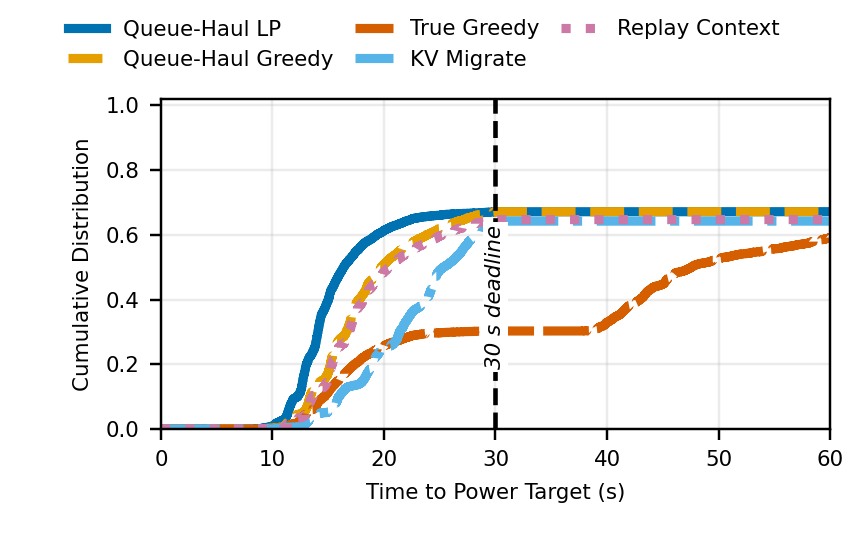
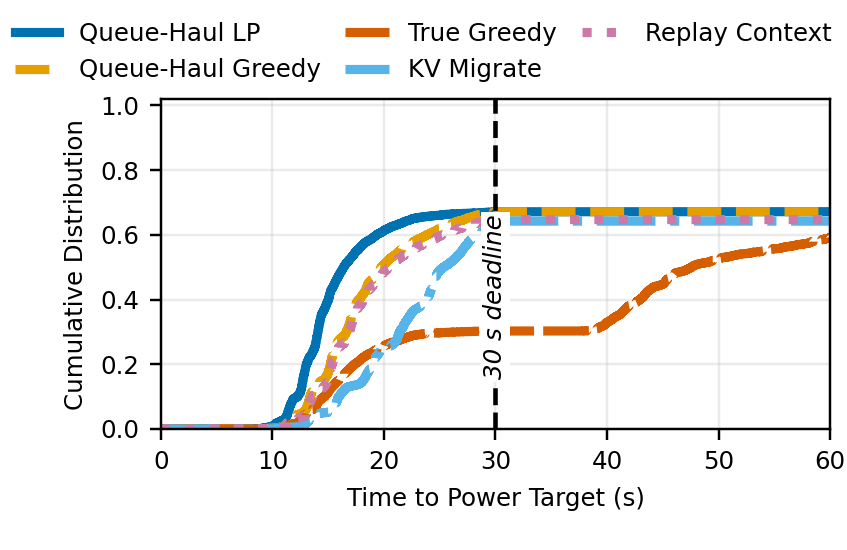
Increase pooled attainment label size

diff --git a/agent-migrate/queue-haul/plot_workload_policy_attainment.py b/agent-migrate/queue-haul/plot_workload_policy_attainment.py
@@ -25,7 +25,7 @@ POLICIES = {
     "replay_only": "replay_only",
 }
 FIGSIZE = (3.85, 2.5)
-LABEL_SIZE = 7
+LABEL_SIZE = 8
 plot_style.apply()
 
 
